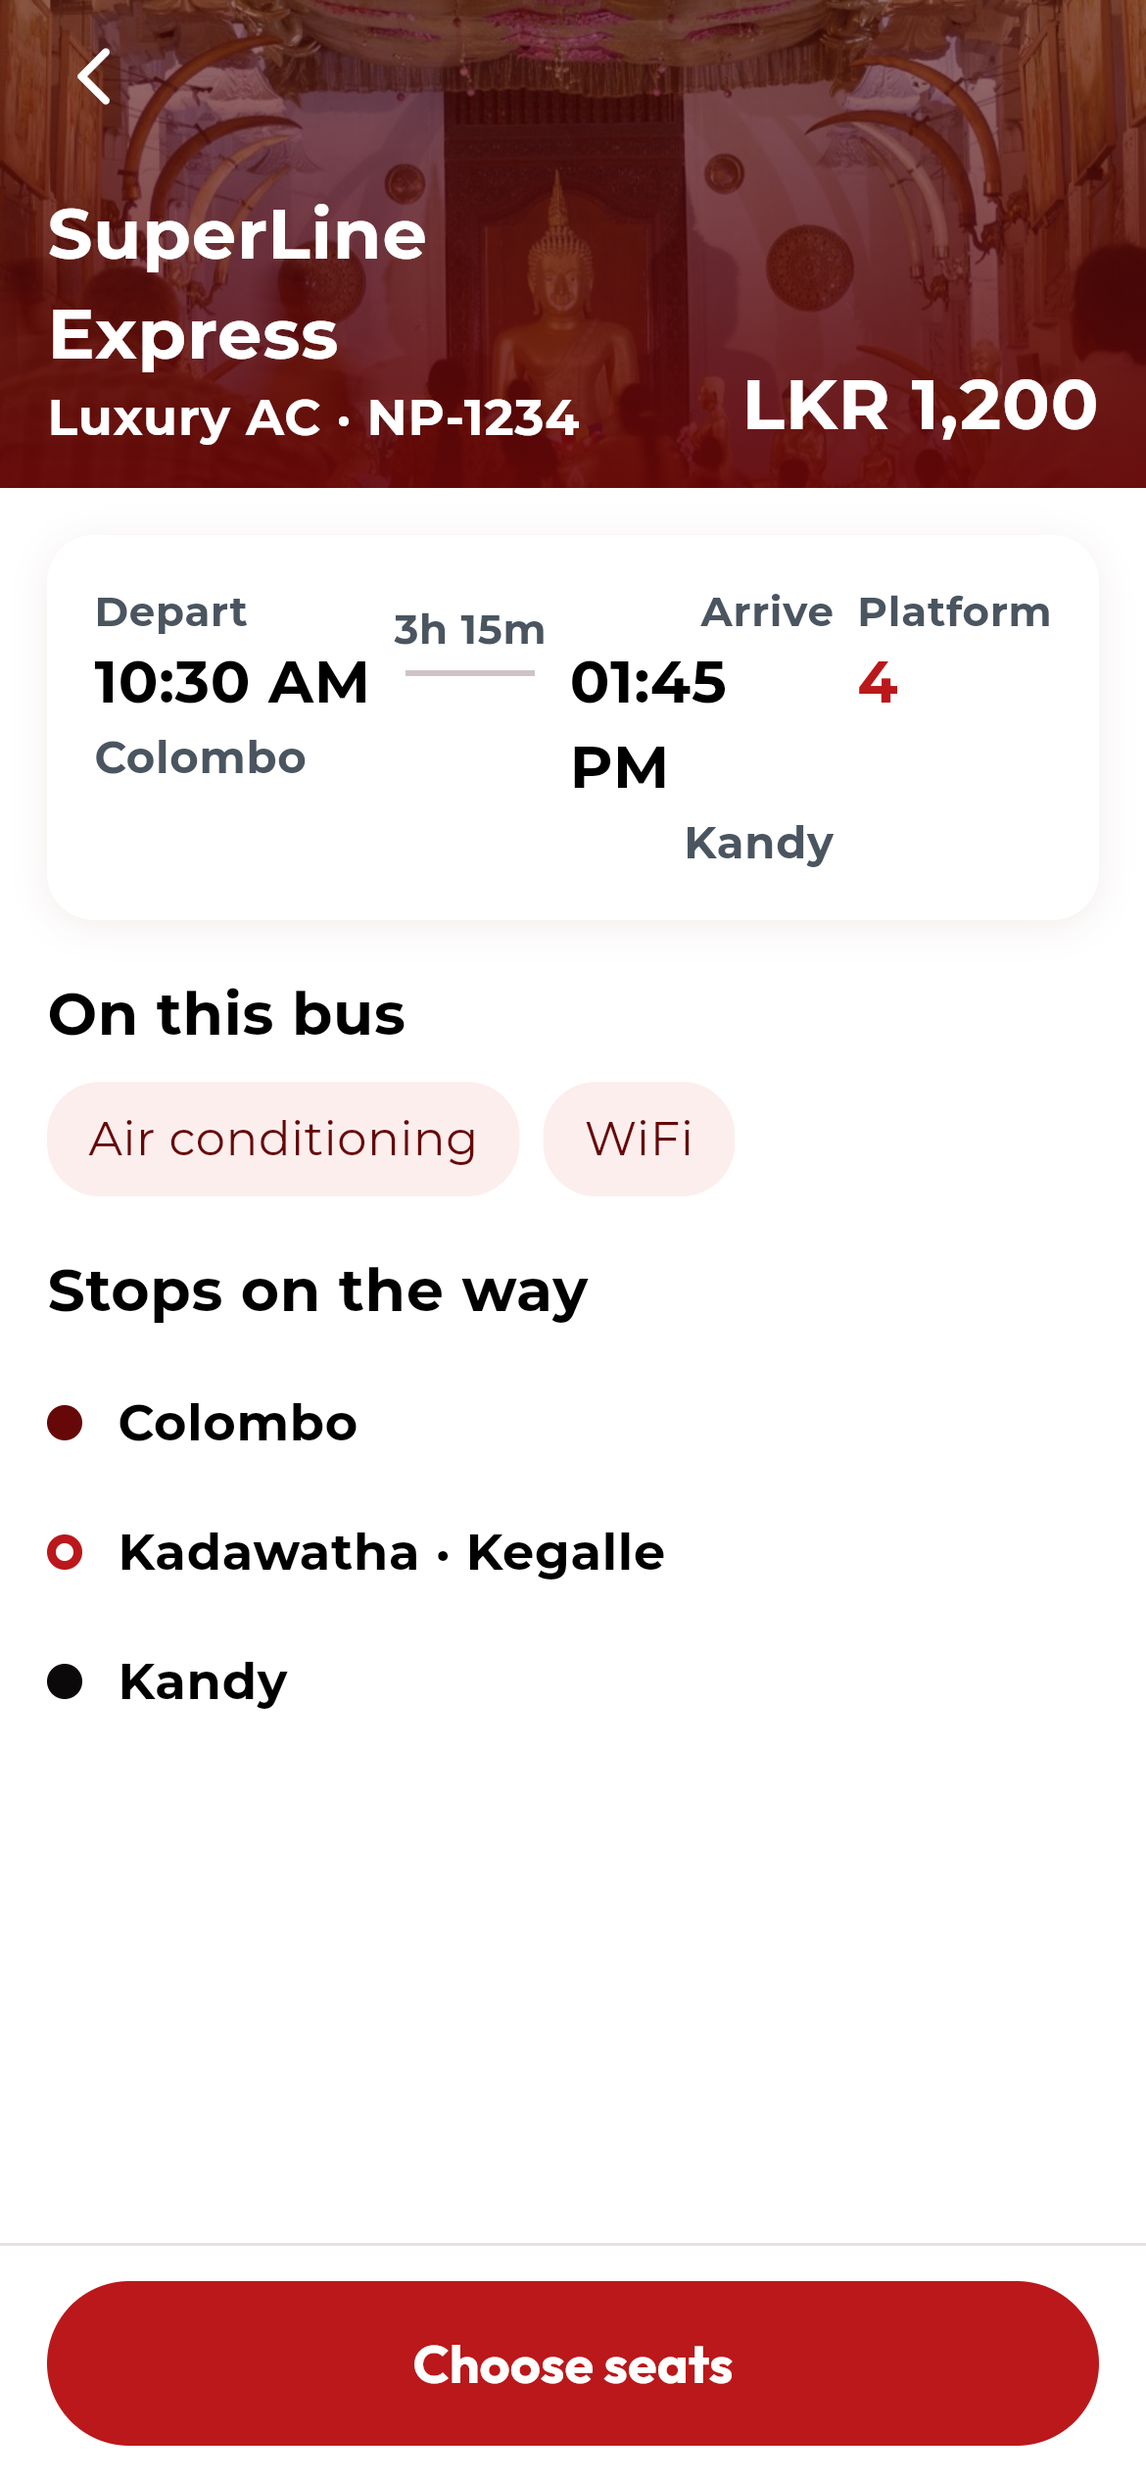
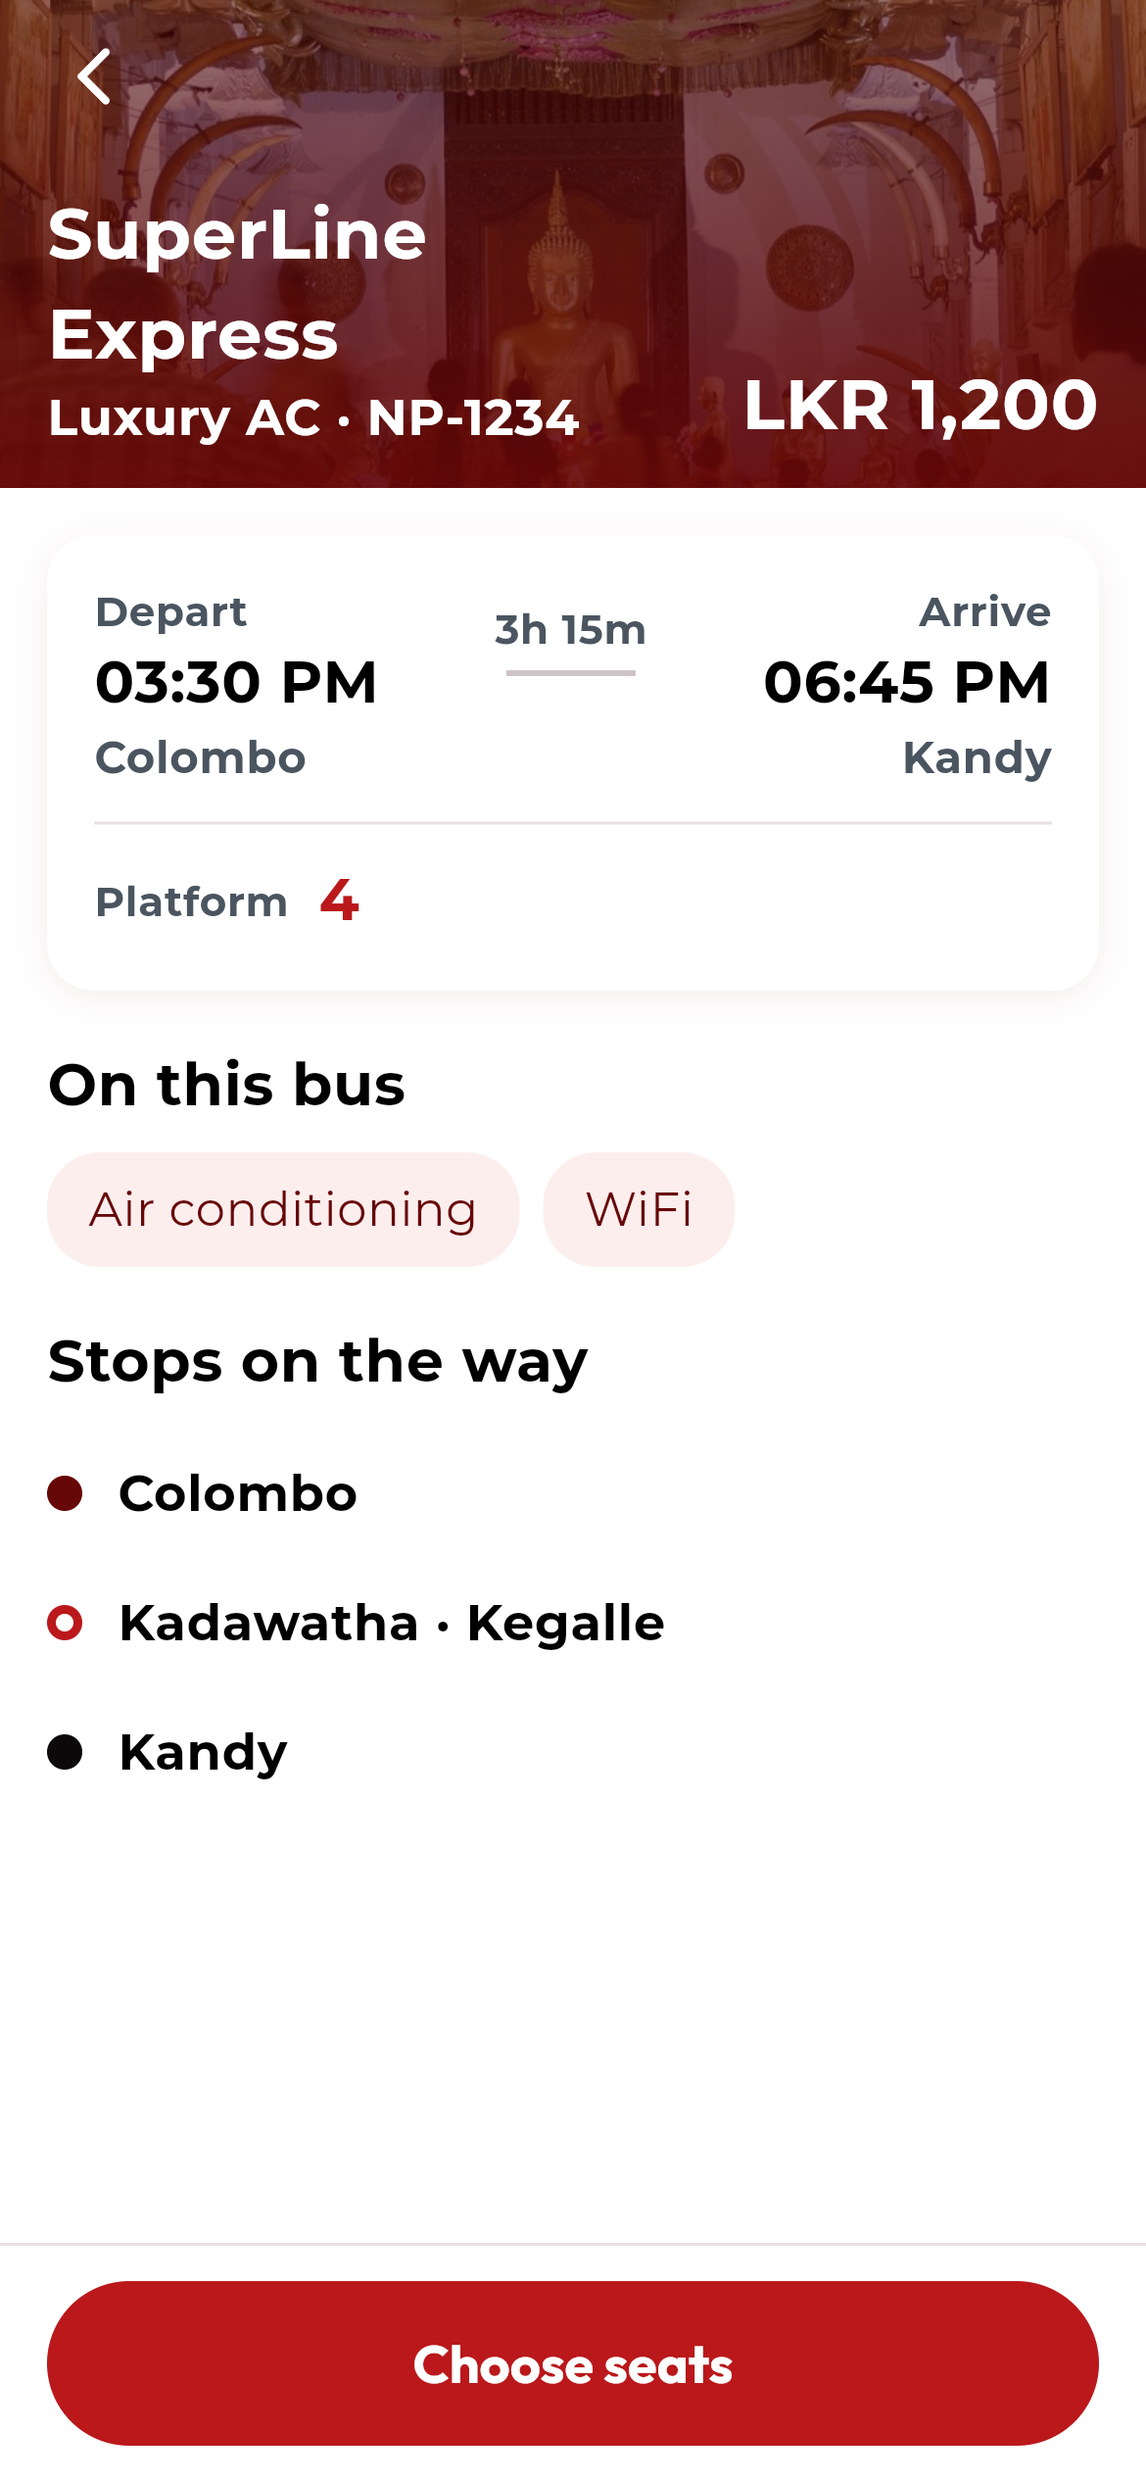
Clear the conductor code box after boarding, safe short ids, platform line on bus details, sign-in code screen and more real pictures (#30)

diff --git a/lib/views/results/bus_details_screen.dart b/lib/views/results/bus_details_screen.dart
@@ -149,58 +149,57 @@ class BusDetailsScreen extends StatelessWidget {
                             Container(
                               padding: const EdgeInsets.all(16),
                               decoration: blCard(16),
-                              child: Row(
-                                mainAxisAlignment:
-                                    MainAxisAlignment.spaceBetween,
-                                crossAxisAlignment: CrossAxisAlignment.start,
-                                children: [
-                                  stat(
-                                      'Depart',
-                                      time.format(trip.departureTime),
-                                      trip.fromCity,
-                                      CrossAxisAlignment.start),
-                                  Padding(
-                                    padding: const EdgeInsets.only(top: 6),
-                                    child: Column(children: [
-                                      Text(
-                                          busDuration(trip.arrivalTime
-                                              .difference(trip.departureTime)),
-                                          style: const TextStyle(
-                                              fontSize: 14, color: BL.muted)),
-                                      const SizedBox(height: 4),
-                                      Container(
-                                          width: 44,
-                                          height: 2,
-                                          color: BL.border),
-                                    ]),
-                                  ),
-                                  Flexible(
-                                    child: stat(
-                                        'Arrive',
-                                        time.format(trip.arrivalTime),
-                                        trip.toCity,
-                                        CrossAxisAlignment.end),
-                                  ),
-                                  if (trip.platformNumber.isNotEmpty)
-                                    Flexible(
-                                      child: Column(
-                                        crossAxisAlignment:
-                                            CrossAxisAlignment.start,
-                                        children: [
-                                          const Text('Platform',
-                                              style: TextStyle(
-                                                  fontSize: 14,
-                                                  color: BL.muted)),
-                                          Text(trip.platformNumber,
-                                              style: const TextStyle(
-                                                  fontSize: 20,
-                                                  fontWeight: FontWeight.w800,
-                                                  color: BL.crimson)),
-                                        ],
-                                      ),
+                              child: Column(children: [
+                                Row(
+                                  mainAxisAlignment:
+                                      MainAxisAlignment.spaceBetween,
+                                  crossAxisAlignment: CrossAxisAlignment.start,
+                                  children: [
+                                    stat(
+                                        'Depart',
+                                        time.format(trip.departureTime),
+                                        trip.fromCity,
+                                        CrossAxisAlignment.start),
+                                    Padding(
+                                      padding: const EdgeInsets.only(top: 6),
+                                      child: Column(children: [
+                                        Text(
+                                            busDuration(trip.arrivalTime
+                                                .difference(
+                                                    trip.departureTime)),
+                                            style: const TextStyle(
+                                                fontSize: 14, color: BL.muted)),
+                                        const SizedBox(height: 4),
+                                        Container(
+                                            width: 44,
+                                            height: 2,
+                                            color: BL.border),
+                                      ]),
                                     ),
+                                    Flexible(
+                                      child: stat(
+                                          'Arrive',
+                                          time.format(trip.arrivalTime),
+                                          trip.toCity,
+                                          CrossAxisAlignment.end),
+                                    ),
+                                  ],
+                                ),
+                                if (trip.platformNumber.isNotEmpty) ...[
+                                  const Divider(height: 24, color: BL.hairline),
+                                  Row(children: [
+                                    const Text('Platform',
+                                        style: TextStyle(
+                                            fontSize: 14, color: BL.muted)),
+                                    const SizedBox(width: 10),
+                                    Text(trip.platformNumber,
+                                        style: const TextStyle(
+                                            fontSize: 20,
+                                            fontWeight: FontWeight.w800,
+                                            color: BL.crimson)),
+                                  ]),
                                 ],
-                              ),
+                              ]),
                             ),
                             if (trip.amenities.isNotEmpty) ...[
                               const SizedBox(height: 18),

diff --git a/tool/live-shots/capture.js b/tool/live-shots/capture.js
@@ -117,6 +117,31 @@ scenes.phoneProfile = async b => {
   await L.tap(p, 'Go back'); await L.sleep(1500);
   await L.tap(p, 'Send Feedback'); await L.sleep(2000); await snap(p, 'feedback');
 };
+scenes.otp = async b => {
+  const p = await L.open(b, ...dims);
+  await L.tap(p, 'Log in with phone number'); await L.sleep(2000);
+  await L.fill(p, 0, '771234567');
+  await L.tap(p, 'Send Code'); await L.sleep(5000); await snap(p, 'otp');
+  // the pretend Firebase lists the code it "texted"
+  const list = await (await fetch('http://localhost:9099/emulator/v1/projects/buslink-416e1/verificationCodes')).json();
+  const code = list.verificationCodes[list.verificationCodes.length - 1].code;
+  await L.fill(p, 0, code); await L.sleep(2500); await snap(p, 'otp-filled');
+};
+scenes.boardTwice = async b => {
+  const p = await L.open(b, ...dims);
+  await L.login(p, 'conductor'); await L.sleep(2000);
+  await L.tap(p, 'Decline').catch(() => {}); await L.sleep(2000);
+  await L.fill(p, 0, 'K7M2'); await L.tap(p, 'Verify'); await L.sleep(3000);
+  await L.tap(p, 'Approve Boarding'); await L.sleep(3000); await snap(p, 'board-approved');
+  await L.fill(p, 0, 'K7M2'); await L.tap(p, 'Verify'); await L.sleep(3000); await snap(p, 'board-again');
+};
+scenes.refundSubmit = async b => {
+  const p = await L.open(b, ...dims);
+  await L.login(p, 'customer');
+  await L.tap(p, 'My Trips'); await L.sleep(2000);
+  await L.tap(p, 'Refund'); await L.sleep(2500);
+  await L.tap(p, 'Choose a reason'); await L.sleep(1200); await snap(p, 'refund-reasons');
+};
 scenes.empty = async b => {
   const p = await L.open(b, ...dims);
   await L.login(p, 'newcomer');

diff --git a/lib/views/booking/payment_success_screen.dart b/lib/views/booking/payment_success_screen.dart
@@ -26,6 +26,7 @@ import 'package:permission_handler/permission_handler.dart';
 
 // import '../../views/home/home_screen.dart'; // Unused
 import '../customer_main_screen.dart';
+import '../../utils/text_utils.dart';
 
 class PaymentSuccessScreen extends StatefulWidget {
   const PaymentSuccessScreen({super.key});
@@ -355,7 +356,7 @@ class _PaymentSuccessScreenState extends State<PaymentSuccessScreen> {
                                       pw.MainAxisAlignment.spaceBetween,
                                   children: [
                                     pw.Text(
-                                        "Ticket Code: ${ticket.shortId ?? ticket.ticketId.substring(0, 8).toUpperCase()}",
+                                        "Ticket Code: ${ticket.shortId ?? firstChars(ticket.ticketId, 8).toUpperCase()}",
                                         style: pw.TextStyle(
                                             fontWeight: pw.FontWeight.bold,
                                             fontSize: 18)),
@@ -779,7 +780,7 @@ class _PaymentSuccessScreenState extends State<PaymentSuccessScreen> {
                 const SizedBox(height: 10),
                 _qr(t, 112),
                 const SizedBox(height: 4),
-                Text('E-TICKET · ${t.shortId ?? t.ticketId.substring(0, 8)}',
+                Text('E-TICKET · ${t.shortId ?? firstChars(t.ticketId, 8)}',
                     style: const TextStyle(fontSize: 14, color: BL.muted)),
                 const SizedBox(height: 10),
                 Container(

diff --git a/lib/views/ticket/ticket_screen.dart b/lib/views/ticket/ticket_screen.dart
@@ -20,6 +20,7 @@ import '../home/home_sections.dart' show cityPhoto;
 import '../../services/notification_service.dart'; // Added
 import '../tracking/track_bus_screen.dart'; // Added
 import '../profile/feedback_dialog.dart';
+import '../../utils/text_utils.dart';
 // Added
 
 // import '../home/home_screen.dart'; // Unused
@@ -76,7 +77,7 @@ class _TicketScreenState extends State<TicketScreen> {
     final ticket = tickets[_index.clamp(0, tickets.length - 1)];
     final isDesktop = MediaQuery.of(context).size.width > 900;
     final live = trip.status != 'completed' && trip.status != 'cancelled';
-    final code = ticket.shortId ?? ticket.ticketId.substring(0, 4);
+    final code = ticket.shortId ?? firstChars(ticket.ticketId, 4);
 
     Widget row(String l, String v) => Padding(
           padding: const EdgeInsets.symmetric(vertical: 4),
@@ -456,7 +457,7 @@ class _TicketScreenState extends State<TicketScreen> {
                       ],
                       data: tickets
                           .map((t) => [
-                                t.ticketId.substring(0, 8).toUpperCase(),
+                                firstChars(t.ticketId, 8).toUpperCase(),
                                 t.passengerName,
                                 t.passengerPhone,
                                 t.seatNumbers.join(','),

diff --git a/lib/views/booking/refund_status_screen.dart b/lib/views/booking/refund_status_screen.dart
@@ -6,6 +6,7 @@ import '../../utils/bl_colors.dart';
 import '../customer_main_screen.dart';
 import '../support/support_screen.dart';
 import '../widgets/bl_widgets.dart';
+import '../../utils/text_utils.dart';
 
 class RefundStatusScreen extends StatelessWidget {
   final String refundId;
@@ -190,7 +191,7 @@ class _Body extends StatelessWidget {
                                 'If you think this is a mistake, contact support and quote your ticket ID '),
                         TextSpan(
                             text: refund.ticketId.length > 8
-                                ? refund.ticketId.substring(0, 8)
+                                ? firstChars(refund.ticketId, 8)
                                 : refund.ticketId,
                             style: const TextStyle(
                                 fontWeight: FontWeight.w700, color: BL.ink)),

diff --git a/lib/views/booking/seat_selection_screen.dart b/lib/views/booking/seat_selection_screen.dart
@@ -19,6 +19,7 @@ import 'package:intl/intl.dart';
 import '../widgets/bl_widgets.dart';
 import '../../utils/bl_colors.dart';
 import '../home/home_sections.dart' show cityPhoto;
+import '../../utils/text_utils.dart';
 
 class SeatSelectionScreen extends StatefulWidget {
   final EnrichedTrip trip;
@@ -414,7 +415,7 @@ class _SeatSelectionScreenState extends State<SeatSelectionScreen> {
                         if (context.mounted) {
                           ScaffoldMessenger.of(context).showSnackBar(SnackBar(
                               content: Text(
-                                  "Ticket Issued! ID: ${ticket.ticketId.substring(0, 5)}... SMS Sending...")));
+                                  "Ticket Issued! ID: ${firstChars(ticket.ticketId, 5)}... SMS Sending...")));
 
                           await SmsService.sendTicketCopy(ticket);
 

diff --git a/lib/views/conductor/conductor_trip_management_screen.dart b/lib/views/conductor/conductor_trip_management_screen.dart
@@ -10,6 +10,7 @@ import '../../services/location_service.dart';
 import '../../utils/location_permission_helper.dart';
 
 import '../booking/seat_selection_screen.dart';
+import '../../utils/text_utils.dart';
 
 class ConductorTripManagementScreen extends StatefulWidget {
   final EnrichedTrip trip;
@@ -120,7 +121,7 @@ class _ConductorTripManagementScreenState
                         mainAxisAlignment: MainAxisAlignment.spaceBetween,
                         children: [
                           Text(
-                              "TRIP T${currentTrip.id.substring(0, 4).toUpperCase()}",
+                              "TRIP T${firstChars(currentTrip.id, 4).toUpperCase()}",
                               style: TextStyle(
                                   fontFamily: 'Outfit',
                                   color: isDark

diff --git a/lib/services/sms_service.dart b/lib/services/sms_service.dart
@@ -3,6 +3,7 @@ import 'package:flutter/foundation.dart';
 import 'package:url_launcher/url_launcher.dart';
 // For debugPrint
 import 'dart:io';
+import '../utils/text_utils.dart';
 
 class SmsService {
   static final CollectionReference _outboundMessages =
@@ -113,7 +114,7 @@ class SmsService {
       if (phone.isEmpty) return false;
 
       final tripData = ticket.tripData as Map<String, dynamic>;
-      final messageBody = "BusLink Ticket: ${ticket.ticketId.substring(0, 4)} "
+      final messageBody = "BusLink Ticket: ${firstChars(ticket.ticketId, 4)} "
           "From ${tripData['originCity'] ?? tripData['fromCity']} To ${tripData['destinationCity'] ?? tripData['toCity']}. "
           "Bus: ${tripData['busNumber']}. Seat: ${(ticket.seatNumbers as List).join(',')}. "
           "Show to conductor.";

diff --git a/lib/views/booking/my_trips_screen.dart b/lib/views/booking/my_trips_screen.dart
@@ -18,6 +18,7 @@ import '../layout/app_footer.dart';
 import '../analytics/travel_stats_screen.dart';
 import 'refund_request_screen.dart';
 import 'package:buslink/l10n/app_localizations.dart';
+import '../../utils/text_utils.dart';
 
 enum TripFilter { upcoming, completed, cancelled, delayed }
 
@@ -707,8 +708,7 @@ class _Detail extends StatelessWidget {
                       ),
                     ),
                     const SizedBox(height: 8),
-                    Text(
-                        'Ticket ID: ${t.shortId ?? t.ticketId.substring(0, 8)}',
+                    Text('Ticket ID: ${t.shortId ?? firstChars(t.ticketId, 8)}',
                         style: const TextStyle(fontSize: 15, color: BL.muted)),
                   ],
                 ),

diff --git a/lib/views/conductor/conductor_dashboard.dart b/lib/views/conductor/conductor_dashboard.dart
@@ -438,6 +438,7 @@ class _ConductorDashboardState extends State<ConductorDashboard> {
       }
 
       if (ticket.isBoarded) {
+        _ticketIdController.clear();
         if (mounted) _showAlreadyBoarded(ticket.boardedAt!);
         return;
       }
@@ -502,6 +503,8 @@ class _ConductorDashboardState extends State<ConductorDashboard> {
                       return;
                     }
                     Navigator.pop(dialogContext);
+                    // Done with this ticket: empty the box for the next one.
+                    _ticketIdController.clear();
                     _announceBoarding(result);
                   },
                 ),

diff --git a/test/helpers/app_fonts.dart b/test/helpers/app_fonts.dart
@@ -25,7 +25,8 @@ Future<void> loadAppFonts() async {
     for (final path in entry.value) {
       final file = File(path);
       if (!file.existsSync()) continue;
-      loader.addFont(Future.value(ByteData.sublistView(file.readAsBytesSync())));
+      loader
+          .addFont(Future.value(ByteData.sublistView(file.readAsBytesSync())));
     }
     await loader.load();
   }

diff --git a/test/text_utils_test.dart b/test/text_utils_test.dart
@@ -1,0 +1,10 @@
+import 'package:buslink/utils/text_utils.dart';
+import 'package:flutter_test/flutter_test.dart';
+
+void main() {
+  test('firstChars never throws on a short id', () {
+    expect(firstChars('abcdef', 4), 'abcd');
+    expect(firstChars('t1', 4), 't1');
+    expect(firstChars('', 4), '');
+  });
+}
